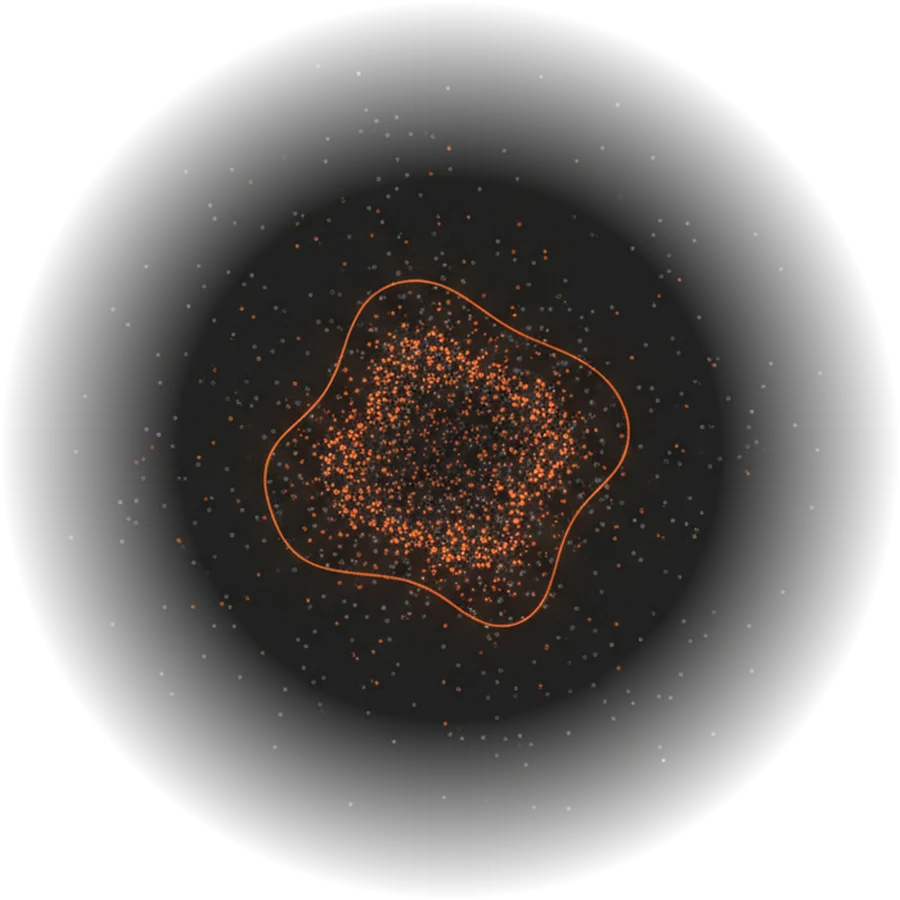
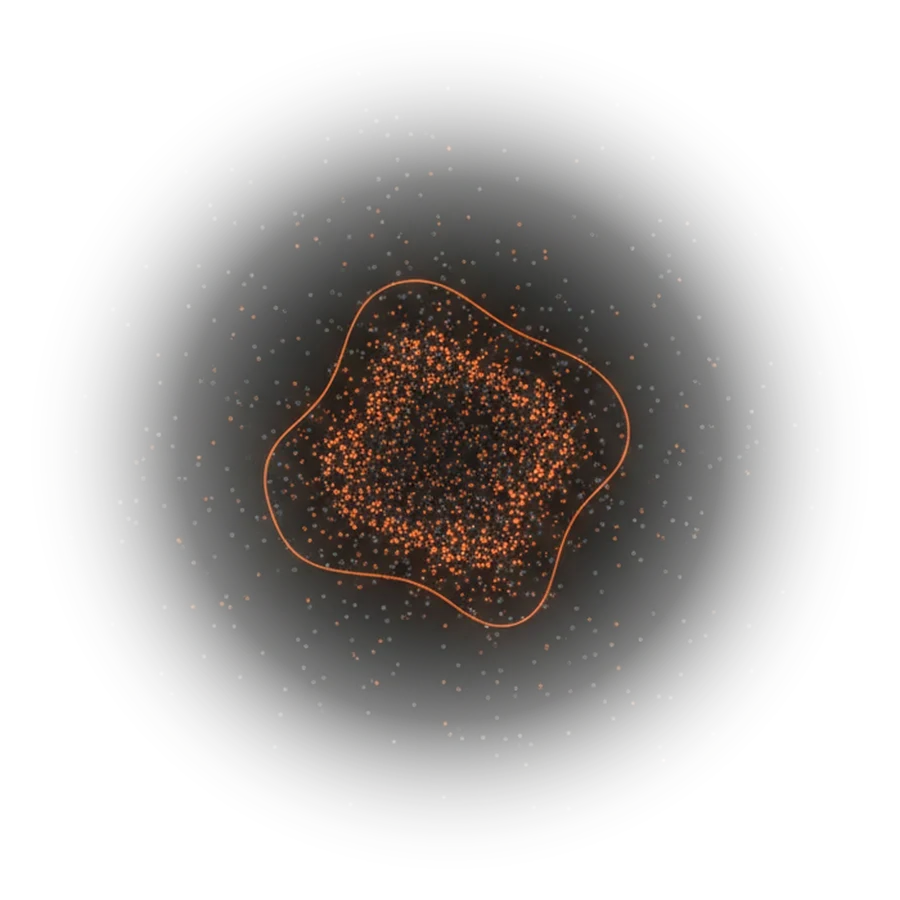
Interactive targeting graphic with gradual fade

diff --git a/index.html b/index.html
@@ -203,6 +203,9 @@ section[id]{scroll-margin-top:var(--head-h)}
 .tdot{animation:tdrift var(--du) ease-in-out var(--de) infinite alternate}
 @keyframes tdrift{to{transform:translate(var(--dx),var(--dy))}}
 .targ-pulse{opacity:0;animation:tpulse 6s ease-out infinite;transform-origin:450px 445px}
+.targ-cur{transition:opacity .25s ease}
+.tdot{transition:r .18s ease}
+.targ-wrap{cursor:crosshair}
 @keyframes tpulse{0%{opacity:.5;transform:scale(.78)}70%{opacity:0;transform:scale(1.12)}100%{opacity:0;transform:scale(1.12)}}
 @media (min-width:940px){.hero .plate .hero-net{width:142%;max-width:none;margin:-13% -19%}}
 .net-rings circle{fill:none;stroke:#20272F;stroke-width:1}
@@ -622,7 +625,7 @@ footer{background:#0F1317;color:var(--text);border-top:1px solid var(--line);pad
         <svg class="targ-anim" viewBox="0 0 900 900" aria-hidden="true">
           <circle class="targ-pulse" cx="450" cy="445" r="180" fill="none" stroke="#EA5B2A" stroke-width="1.5"></circle>
           <circle class="tdot" cx="361" cy="470" r="3.5" fill="#FF9A6B" opacity=".9" style="--dx:-0.8px;--dy:0.2px;--du:8.5s;--de:0.9s"></circle><circle class="tdot" cx="351" cy="459" r="2.5" fill="#FF9A6B" opacity=".9" style="--dx:-1.2px;--dy:-7.9px;--du:8.2s;--de:4.5s"></circle><circle class="tdot" cx="593" cy="480" r="3.6" fill="#FF9A6B" opacity=".9" style="--dx:3.4px;--dy:2.5px;--du:5.9s;--de:0.1s"></circle><circle class="tdot" cx="473" cy="454" r="3.4" fill="#F07C4F" opacity=".9" style="--dx:2.2px;--dy:6.1px;--du:7.0s;--de:3.0s"></circle><circle class="tdot" cx="348" cy="434" r="2.9" fill="#F07C4F" opacity=".9" style="--dx:3.6px;--dy:-0.9px;--du:6.7s;--de:5.0s"></circle><circle class="tdot" cx="434" cy="392" r="2.5" fill="#EA5B2A" opacity=".9" style="--dx:-4.6px;--dy:-9.5px;--du:9.6s;--de:2.0s"></circle><circle class="tdot" cx="341" cy="530" r="3.4" fill="#FF9A6B" opacity=".9" style="--dx:-11.0px;--dy:-6.4px;--du:10.5s;--de:2.3s"></circle><circle class="tdot" cx="426" cy="461" r="3.1" fill="#EA5B2A" opacity=".9" style="--dx:6.1px;--dy:-5.1px;--du:5.5s;--de:1.7s"></circle><circle class="tdot" cx="452" cy="413" r="2.5" fill="#FF9A6B" opacity=".9" style="--dx:-8.8px;--dy:-9.7px;--du:9.8s;--de:0.9s"></circle><circle class="tdot" cx="483" cy="517" r="3.6" fill="#F07C4F" opacity=".9" style="--dx:5.9px;--dy:-1.8px;--du:7.3s;--de:2.0s"></circle><circle class="tdot" cx="582" cy="445" r="3.6" fill="#FF9A6B" opacity=".9" style="--dx:2.0px;--dy:11.0px;--du:5.1s;--de:0.9s"></circle><circle class="tdot" cx="429" cy="422" r="3.6" fill="#EA5B2A" opacity=".9" style="--dx:-6.3px;--dy:-5.3px;--du:9.6s;--de:1.6s"></circle><circle class="tdot" cx="428" cy="463" r="2.5" fill="#F07C4F" opacity=".9" style="--dx:3.0px;--dy:-10.7px;--du:7.2s;--de:3.1s"></circle><circle class="tdot" cx="530" cy="426" r="3.0" fill="#FF9A6B" opacity=".9" style="--dx:8.1px;--dy:-7.0px;--du:5.9s;--de:4.5s"></circle><circle class="tdot" cx="450" cy="485" r="3.2" fill="#FF9A6B" opacity=".9" style="--dx:9.7px;--dy:-6.7px;--du:10.7s;--de:4.4s"></circle><circle class="tdot" cx="473" cy="456" r="2.4" fill="#EA5B2A" opacity=".9" style="--dx:0.3px;--dy:-5.4px;--du:9.4s;--de:2.0s"></circle><circle class="tdot" cx="494" cy="366" r="2.6" fill="#FF9A6B" opacity=".9" style="--dx:-7.1px;--dy:4.8px;--du:5.4s;--de:1.1s"></circle><circle class="tdot" cx="393" cy="371" r="2.3" fill="#EA5B2A" opacity=".9" style="--dx:-6.3px;--dy:9.1px;--du:9.5s;--de:0.3s"></circle><circle class="tdot" cx="424" cy="453" r="2.4" fill="#EA5B2A" opacity=".9" style="--dx:-2.9px;--dy:1.6px;--du:5.8s;--de:1.8s"></circle><circle class="tdot" cx="555" cy="433" r="3.2" fill="#EA5B2A" opacity=".9" style="--dx:1.9px;--dy:-7.9px;--du:5.2s;--de:0.1s"></circle><circle class="tdot" cx="406" cy="321" r="2.2" fill="#F07C4F" opacity=".9" style="--dx:3.0px;--dy:-0.4px;--du:9.4s;--de:1.6s"></circle><circle class="tdot" cx="531" cy="482" r="3.2" fill="#EA5B2A" opacity=".9" style="--dx:8.8px;--dy:5.2px;--du:9.2s;--de:4.0s"></circle><circle class="tdot" cx="385" cy="524" r="3.5" fill="#FF9A6B" opacity=".9" style="--dx:8.2px;--dy:-1.8px;--du:9.7s;--de:4.3s"></circle><circle class="tdot" cx="556" cy="454" r="2.7" fill="#EA5B2A" opacity=".9" style="--dx:-10.7px;--dy:-9.4px;--du:5.5s;--de:0.6s"></circle><circle class="tdot" cx="533" cy="374" r="2.7" fill="#F07C4F" opacity=".9" style="--dx:5.2px;--dy:1.8px;--du:7.6s;--de:4.2s"></circle><circle class="tdot" cx="364" cy="436" r="2.6" fill="#FF9A6B" opacity=".9" style="--dx:-9.1px;--dy:-10.5px;--du:10.7s;--de:0.6s"></circle><circle class="tdot" cx="312" cy="254" r="2.3" fill="#7B8590" opacity=".55" style="--dx:-2.4px;--dy:-6.4px;--du:9.7s;--de:2.6s"></circle><circle class="tdot" cx="456" cy="236" r="2.3" fill="#7B8590" opacity=".55" style="--dx:-0.0px;--dy:-4.7px;--du:8.4s;--de:1.3s"></circle><circle class="tdot" cx="249" cy="247" r="2.2" fill="#7B8590" opacity=".55" style="--dx:-5.4px;--dy:-5.1px;--du:7.3s;--de:4.6s"></circle><circle class="tdot" cx="502" cy="632" r="1.8" fill="#7B8590" opacity=".55" style="--dx:7.1px;--dy:-8.3px;--du:6.4s;--de:4.9s"></circle><circle class="tdot" cx="540" cy="283" r="1.9" fill="#7B8590" opacity=".55" style="--dx:7.7px;--dy:6.0px;--du:8.3s;--de:2.6s"></circle><circle class="tdot" cx="314" cy="219" r="2.3" fill="#7B8590" opacity=".55" style="--dx:2.2px;--dy:-3.2px;--du:11.0s;--de:1.4s"></circle><circle class="tdot" cx="228" cy="290" r="1.8" fill="#7B8590" opacity=".55" style="--dx:-2.6px;--dy:2.7px;--du:9.4s;--de:3.2s"></circle><circle class="tdot" cx="271" cy="559" r="2.2" fill="#7B8590" opacity=".55" style="--dx:-4.2px;--dy:5.0px;--du:10.8s;--de:4.9s"></circle><circle class="tdot" cx="604" cy="572" r="2.0" fill="#7B8590" opacity=".55" style="--dx:2.5px;--dy:-2.4px;--du:6.5s;--de:1.0s"></circle><circle class="tdot" cx="551" cy="268" r="2.1" fill="#7B8590" opacity=".55" style="--dx:4.6px;--dy:0.6px;--du:6.2s;--de:1.1s"></circle><circle class="tdot" cx="497" cy="215" r="2.4" fill="#7B8590" opacity=".55" style="--dx:0.0px;--dy:8.9px;--du:7.0s;--de:4.2s"></circle><circle class="tdot" cx="381" cy="261" r="1.9" fill="#7B8590" opacity=".55" style="--dx:7.1px;--dy:-2.0px;--du:8.7s;--de:1.0s"></circle><circle class="tdot" cx="595" cy="338" r="2.0" fill="#7B8590" opacity=".55" style="--dx:2.7px;--dy:0.0px;--du:10.9s;--de:1.7s"></circle><circle class="tdot" cx="299" cy="711" r="1.6" fill="#7B8590" opacity=".55" style="--dx:6.6px;--dy:5.4px;--du:11.5s;--de:0.6s"></circle>
-        </svg>
+        <g class="targ-cur" opacity="0"><circle r="64" fill="none" stroke="#EA5B2A" stroke-width="2"/><line x1="-84" y1="0" x2="-52" y2="0" stroke="#EA5B2A" stroke-width="2"/><line x1="52" y1="0" x2="84" y2="0" stroke="#EA5B2A" stroke-width="2"/><line x1="0" y1="-84" x2="0" y2="-52" stroke="#EA5B2A" stroke-width="2"/><line x1="0" y1="52" x2="0" y2="84" stroke="#EA5B2A" stroke-width="2"/><circle r="2.5" fill="#EA5B2A"/></g></svg>
       </div>
       </div>
     </div>
@@ -780,6 +783,43 @@ footer{background:#0F1317;color:var(--text);border-top:1px solid var(--line);pad
 </script>
 
 
+
+<script>
+(function(){
+  var wrap=document.querySelector('.targ-wrap'); if(!wrap) return;
+  var svg=wrap.querySelector('.targ-anim'), cur=svg.querySelector('.targ-cur');
+  var dots=Array.prototype.slice.call(svg.querySelectorAll('.tdot'));
+  dots.forEach(function(d){d._x=+d.getAttribute('cx');d._y=+d.getAttribute('cy');d._r=+d.getAttribute('r');});
+  var px=0,py=0,active=false,raf=null;
+  function toView(ev){
+    var b=wrap.getBoundingClientRect();
+    return [ (ev.clientX-b.left)/b.width*900, (ev.clientY-b.top)/b.height*900 ];
+  }
+  function tick(){
+    raf=null;
+    cur.setAttribute('transform','translate('+px.toFixed(1)+','+py.toFixed(1)+')');
+    for(var i=0;i<dots.length;i++){
+      var d=dots[i], dx=d._x-px, dy=d._y-py, dist=Math.sqrt(dx*dx+dy*dy);
+      if(active && dist<130){
+        var k=1-dist/130;
+        d.setAttribute('r',(d._r*(1+1.2*k)).toFixed(2));
+        d.style.fill='#FFB380';
+      }else{
+        d.setAttribute('r',d._r);
+        d.style.fill='';
+      }
+    }
+  }
+  function queue(){ tick(); }
+  wrap.addEventListener('pointermove',function(ev){
+    var v=toView(ev); px=v[0]; py=v[1]; active=true;
+    cur.setAttribute('opacity','1'); queue();
+  });
+  wrap.addEventListener('pointerleave',function(){
+    active=false; cur.setAttribute('opacity','0'); queue();
+  });
+})();
+</script>
 
 <script src="consent.js" defer=""></script>
 
